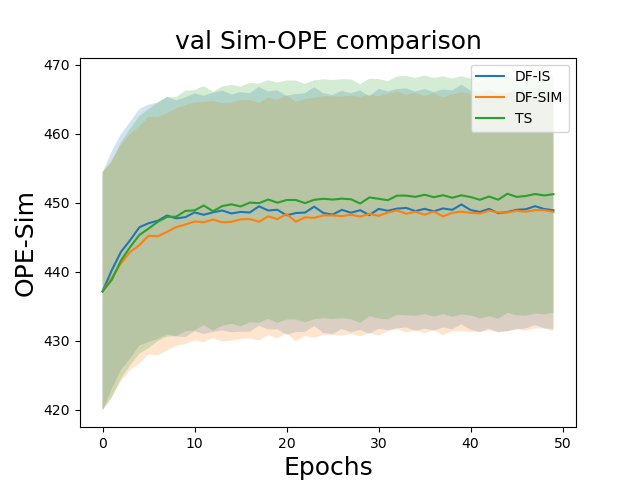
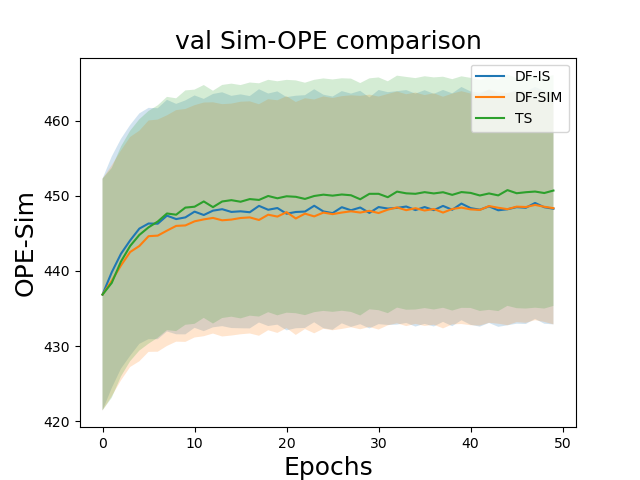
reduced n_trials to 100

diff --git a/dfl/train.py b/dfl/train.py
@@ -33,7 +33,7 @@ if __name__ == '__main__':
     print('argparser arguments', args)
     print ("OPE SETTING IS: ", args.ope)
     n_benefs = 100
-    n_trials = 1000
+    n_trials = 100
     L = 10
     K = 20
     n_states = 4
